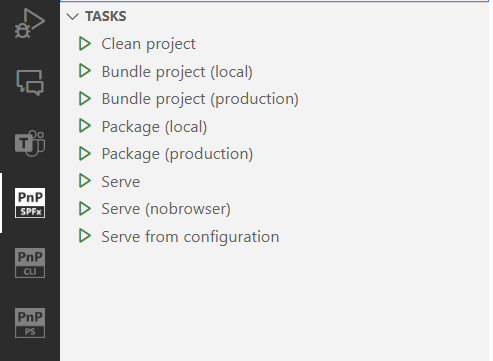
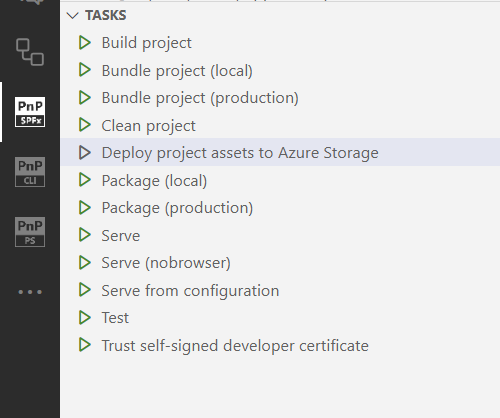
Updates gulp tasks and guidance. Closes: #262, #269 (#306)
## 🎯 Aim

The aim is to add guidance for gulp tasks in extension walkthrough and
add missing gulp tasks.

## 📷 Result

![tasks](https://github.com/user-attachments/assets/bbb83a15-5e0f-4694-9901-f7ecf05762bb)

![image](https://github.com/user-attachments/assets/91e9b386-5c03-4b98-ab02-2ab383932ea7)

## ✅ What was done

- [X] Updates walkthrough with new step describing gulp tasks
- [X] Adds missing gulp tasks

## 🔗 Related issue

Closes: #262, #269

diff --git a/src/panels/CommandPanel.ts b/src/panels/CommandPanel.ts
@@ -206,14 +206,18 @@ export class CommandPanel {
 
   private static taskTreeView() {
     const taskCommands: ActionTreeItem[] = [
-      new ActionTreeItem('Clean project', '', { name: 'debug-start', custom: false }, undefined, Commands.executeTerminalCommand, 'gulp clean'),
+      new ActionTreeItem('Build project', '', { name: 'debug-start', custom: false }, undefined, Commands.executeTerminalCommand, 'gulp build'),
       new ActionTreeItem('Bundle project (local)', '', { name: 'debug-start', custom: false }, undefined, Commands.executeTerminalCommand, 'gulp bundle'),
       new ActionTreeItem('Bundle project (production)', '', { name: 'debug-start', custom: false }, undefined, Commands.executeTerminalCommand, 'gulp bundle --ship'),
+      new ActionTreeItem('Clean project', '', { name: 'debug-start', custom: false }, undefined, Commands.executeTerminalCommand, 'gulp clean'),
+      new ActionTreeItem('Deploy project assets to Azure Storage', '', { name: 'debug-start', custom: false }, undefined, Commands.executeTerminalCommand, 'gulp deploy-azure-storage'),
       new ActionTreeItem('Package (local)', '', { name: 'debug-start', custom: false }, undefined, Commands.executeTerminalCommand, 'gulp package-solution'),
       new ActionTreeItem('Package (production)', '', { name: 'debug-start', custom: false }, undefined, Commands.executeTerminalCommand, 'gulp package-solution --ship'),
       new ActionTreeItem('Serve', '', { name: 'debug-start', custom: false }, undefined, Commands.executeTerminalCommand, 'gulp serve'),
       new ActionTreeItem('Serve (nobrowser)', '', { name: 'debug-start', custom: false }, undefined, Commands.executeTerminalCommand, 'gulp serve --nobrowser'),
       new ActionTreeItem('Serve from configuration', '', { name: 'debug-start', custom: false }, undefined, Commands.serveProject),
+      new ActionTreeItem('Test', '', { name: 'debug-start', custom: false }, undefined, Commands.executeTerminalCommand, 'gulp test'),
+      new ActionTreeItem('Trust self-signed developer certificate', '', { name: 'debug-start', custom: false }, undefined, Commands.executeTerminalCommand, 'gulp trust-dev-cert'),
     ];
 
     window.registerTreeDataProvider('pnp-view-tasks', new ActionTreeDataProvider(taskCommands));

diff --git a/assets/walkthrough/tasks.md b/assets/walkthrough/tasks.md
@@ -1,0 +1,20 @@
+##  Gulp tasks
+
+The SharePoint Framework uses [Gulp](https://gulpjs.com/) as its task runner to handle building, bundling, and packaging of the client-side solution project.
+
+The toolchain consists of the following gulp tasks defined in the @microsoft/sp-build-core-tasks package:
+
+build - Builds the client-side solution project.
+bundle - Bundles the client-side solution project entry point and all its dependencies into a single JavaScript file.
+serve - Serves the client-side solution project and assets from the local machine.
+clean - Cleans the client-side solution project's build artifacts from the previous build and from the build target directories (lib and dist).
+test - Runs unit tests, if available, for the client-side solution project.
+package-solution - Packages the client-side solution into a SharePoint package.
+deploy-azure-storage - Deploys client-side solution project assets to Azure Storage.
+
+
+SPFx Toolkit VS Code extension shows all possible Gulp tasks one may run on an SPFx project. Don't worry about remembering all the commands, just click on the task you want to run and the extension will do the rest.
+
+![Gulp Tasks](../images/tasks.png)
+
+[Check out our docs for more details](https://github.com/pnp/vscode-viva/wiki/5.4-Gulp-tasks)

diff --git a/assets/walkthrough/actions.md b/assets/walkthrough/actions.md
@@ -1,11 +1,3 @@
-##  Gulp tasks
-
-The extension shows all possible Gulp tasks one may run on an SPFx project. The tasks allow you to clean, bundle, package, serve the project with a single click.
-
-![Gulp Tasks](../images/tasks.png)
-
-[Check out our docs for more details](https://github.com/pnp/vscode-viva/wiki/5.4-Gulp-tasks)
-
 ##  Actions
 
 The actions section allows unique functionalities that may significantly boost productivity when working with SPFx projects.
